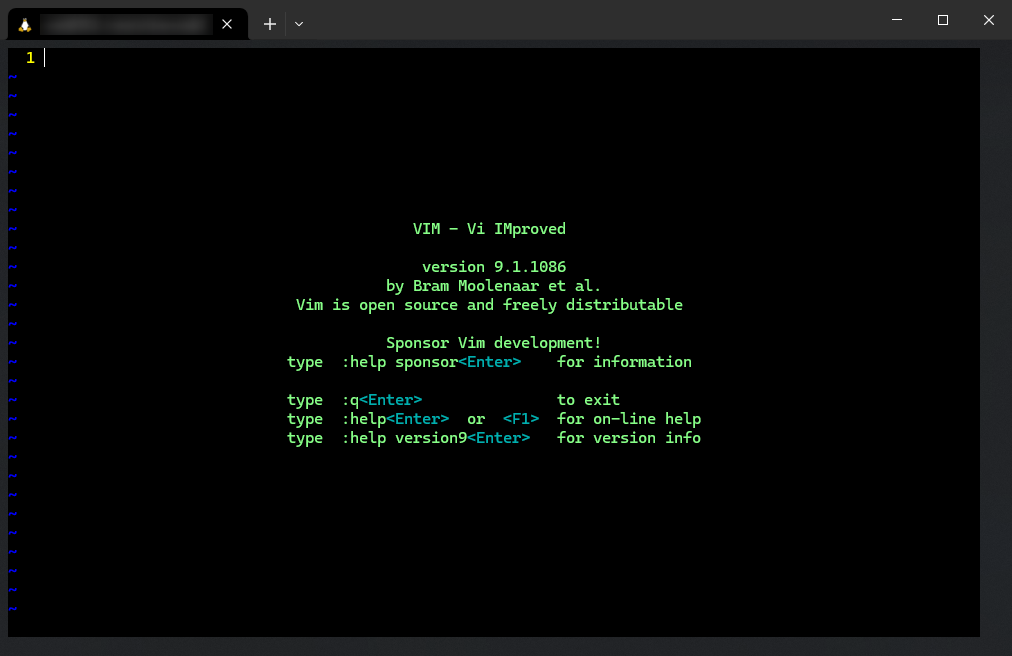
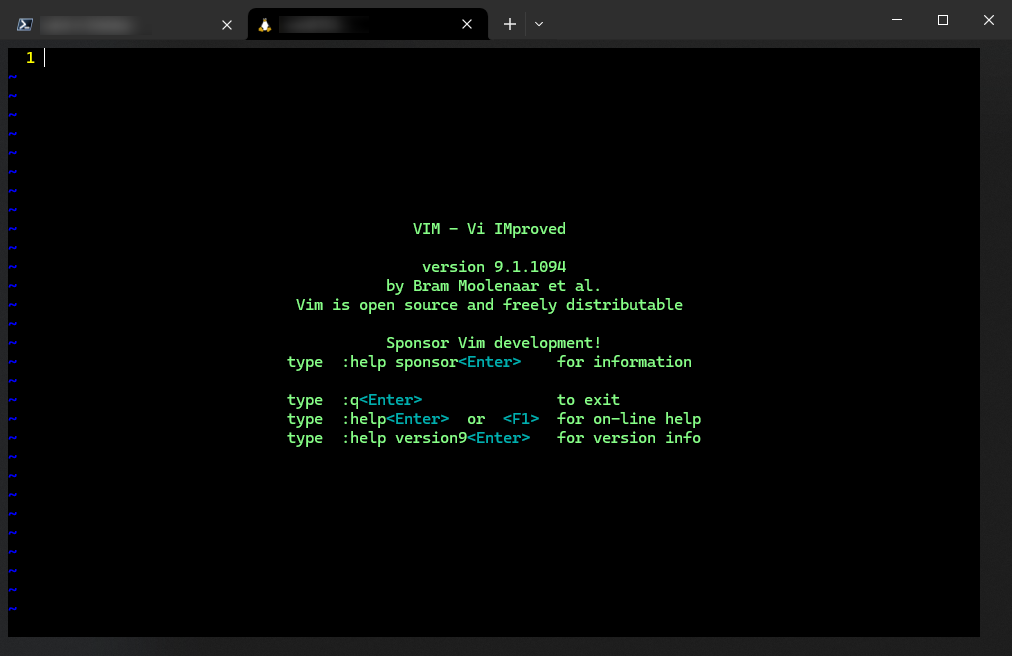
added notes for Ch01 - Vim Basics

Changed region(s): [[0.0, 0.0, 0.4901, 0.061], [0.5514, 0.3963, 0.582, 0.4268]]

diff --git a/Ch01.md b/Ch01.md
@@ -1,0 +1,234 @@
+# 第一章 Vim 入门
+
+
+
+> **本章概要**
+>
+> - 主要 `Vim` 版本间的区别
+> - 模态与无模态界面，以及 `Vim` 的不同之处
+> - `Vim` 的安装与升级
+> - `gVim`：`Vim` 的图形界面
+> - 配置 `Vim` 的 `Python` 语言支持和编辑配置文件
+> - 常见的文件操作：打开、修改、保存和关闭文件
+> - 光标的移动：用箭头键、方向键，按单词、段落等进行导航
+> - 对文件进行简单编辑，并将编辑命令与移动命令相结合
+> - 持久化撤消（undo）历史
+> - 查看 `Vim` 内置帮助手册
+
+本章源码：`https://github.com/PacktPublishing/Mastering-Vim-Second-Edition/tree/main/Chapter01`。
+
+由于本章绝大部分知识都在《**Vim Masterclass**》专栏详细介绍过了，这里只梳理与该专栏强调的核心知识不太一样的地方。
+
+---
+
+
+
+## 1 Vim 简史
+
+![](assets/1.1.png)
+
+**图 1.1 由 Teletype Corporation 出品的 ASR-33 电传打字机**
+
+20 世纪中叶的出现电传打字机（`teleprinter`）实现了远程收发信息打字。
+
+由于当时只能逐行处理文本，于是出现了基于文本行的编辑工具 `ed`（**Ken Thompson** 开发）以及 `ex`（**Bill Joy** 开发）。
+
+后来有了带显示器的版本，文本编辑工具也随之升级出更强大的功能。
+
+1976 年，**Bill Joy** 推出了 `vi` 编辑器，并实现了多行编辑（此 `vi` 非彼 `vi`：如今的 `vi` 其实是 `Vim` 简化版 `Vim-tiny` 的一个快捷方式（symlink））。
+
+`Vim` 各版本核心功能一览表：
+
+|    主版本     |    年份     | 核心看点                                                     |
+| :-----------: | :---------: | ------------------------------------------------------------ |
+|     `1.0`     |    1991     | **Bram Moolenaar** 为 `Amiga` 电脑发布 **Vi Imitation**      |
+|     `2.0`     |    1993     | 更名为 **Vi Improved** 正式发布                              |
+|     `3.0`     |    1994     | 支持多窗口                                                   |
+|     `4.0`     |    1996     | 支持图形界面（`GUI`）                                        |
+| `5.0` - `5.8` | 1998 - 2001 | 新增语法高亮、脚本（`scripting`）和选择模式（select mode）   |
+| `6.0` - `6.4` | 2001 - 2005 | 添加插件支持和 `fold` 折叠                                   |
+| `7.0` - `7.4` | 2006 - 2013 | 拼写检查、代码自动补全、`tag` 标签、分支历史和 `undo` 的持久化 |
+| `8.0` - `8.2` | 2016 - 2019 | 大量优化、异步 `I/O` 支持、内置终端和弹窗                    |
+|     `9.0`     |    2022     | 引入新脚本语言（`Vim9script`）                               |
+
+> [!tip]
+>
+> 想查看 `Vim 9.0` 的新功能，命令模式下执行：`:help version9` + <kbd>Enter</kbd>
+
+
+
+## 2 模态 vs 非模态
+
+主要区别：对上下文语境的识别——
+
+- 支持模态的编辑器：同样的操作随上下文的不同而不同（智能机）；
+- 不支持模态的编辑器：各操作一直是静态功能（直板机）。
+
+![](assets/1.2.png)
+
+**图 1.2 模态界面之于非模态界面，就如同智能手机之于大多数传统手机的对比**
+
+
+
+## 3 Vim 9 的安装（WSL 版）
+
+这一节讲得很细，各操作系统的 `Vim9` 安装方案都演示了一遍。我只根据本机情况做了实测，实现了在 `WSL Unbuntu v20.04` 环境下将原来的 `v8.1` 版 `Vim` 通过源码编译的方式升级到了最新的 `vim 9.1`。
+
+以下是具体的安装操作：
+
+```bash
+$ pwd
+/root
+# 安装 Unbuntu 构建依赖
+$ sudo apt-get install make build-essential libncurses5-dev libncursesw5-dev --fix-missing
+# 下载 ncurses 依赖：https://invisible-island.net/ncurses/#download_ncurses
+$ cp /mnt/c/Users/ad/Desktop/ncurses.tar.gz .
+$ tar -zxvf ncurses.tar.gz
+$ cd ncurses-6.3
+$ ./configure
+$ make
+$ sudo make install
+# 从 GitHub 下载 Vim 的最新稳定版：https://github.com/vim/vim/tags（vim-9.1.1094.tar.gz）
+$ cp /mnt/c/Users/ad/Desktop/vim-9.1.1094.tar.gz .
+# 安装过程中一律点确认
+$ tar -zxvf vim-9.1.1094.tar.gz
+$ cd vim-9.1.1094
+$ ./configure --prefix=/usr/local --with-features=huge --enable-python3interp
+$ make
+$ sudo make install
+```
+
+注意：
+
+- `--prefix` 用于指定安装路径；
+- `--with-feature` 是限定安装范围（按最完整版本安装）；
+- `--enable-python3interp` 是添加对 `Python3` 的语言支持。
+
+安装完毕后，最好重启 `WSL`，并输入 `vim` + <kbd>Enter</kbd> 进行确认：
+
+![](assets/1.3.png)
+
+按照书中给出的一个 `vimrc` 配置更新 `.vimrc` 文件：
+
+```bash
+syntax on " Enable syntax highlighting.
+filetype plugin indent on " Enable file type based options.
+set nocompatible " Don't run in backwards compatible mode.
+set autoindent " Respect indentation when starting new line.
+set expandtab " Expand tabs to spaces. Essential in Python.
+set tabstop=4 " Number of spaces tab is counted for.
+set shiftwidth=4 " Number of spaces to use for autoindent.
+set backspace=2 " Fix backspace behavior on most terminals.
+colorscheme murphy " Change a colorscheme.
+
+" DIY: show line numbers
+set number
+```
+
+于是得到如下效果（启用 `murphy` 配色方案）：
+
+![](assets/1.4.png)
+
+
+
+## 4 创建示例文件
+
+用 `Vim` 创建一个用于演示相关操作的 `Python` 文件 `spam.py`：
+
+```python
+#!/usr/bin/python
+
+import random
+
+INGREDIENTS = ['egg', 'sausage', 'bacon', 'ham', 'crumpets', 'spam']
+
+def prepare_menu_item(ingredient, with_spam=True):
+    if with_spam:
+        return 'spam ' + ingredient
+    return ingredient
+
+def main():
+    print('Scene: A cafe. A man and his wife enter.')
+    print('Man: Well, what\'ve you got?')
+    menu = []
+    for ingredient in INGREDIENTS:
+        has_spam = random.choice([True, False])
+        menu.append(prepare_menu_item(ingredient, with_spam=has_spam))
+    print('Waitress: Well, there\'s', ', '.join(menu))
+
+if __name__ == '__main__':
+    main()
+
+```
+
+然后运行该程序：
+
+```bash
+$ python3 spam.py
+$ Scene: A cafe. A man and his wife enter.
+Man: Well, what've you got?
+Waitress: Well, there's spam egg, spam sausage, bacon, ham, spam crumpets, spam
+$ 
+```
+
+
+
+## 5 关于 .swp 交换文件
+
+当 `Vim` 会话非正常关闭或远程服务器突然中断时，未及时保存变更的文件会生成一个 `.swp` 交换（`swap` 的简写）文件，通常格式为 `<filename>.swp` 或 `.<filename>.swp`，并且它们就在目标文件的所在路径下同步产生。
+
+想要自定义 `.swp` 文件存放的路径，可以通过 `directory` 选项实现（注意末尾为两个斜杠符，否则不生效）：
+
+```bash
+set directory=%USERDATA%\.vim\swap//
+```
+
+若要完全禁用交换文件的生成，则可以在 `.vimrc` 中设置：
+
+```bash
+set noswapfile
+```
+
+
+
+## 6 Vim 光标浏览技巧
+
+主要记住这张示意图就行了：
+
+![](assets/1.5.png)
+
+**图 1.3 Vim 光标浏览核心按键示意图**
+
+和此前专栏最大的不同，是对 `e` 命令和按段落浏览（<kbd>{</kbd> 和 <kbd>}</kbd>）的强调。`e` 即 `end of word` 的缩写，可快速定位到光标所在单词（word）的最后一个字符，与 `b` 命令相互呼应。
+
+
+
+## 7 对 undo 与 redo 的持久化相关设置
+
+`Vim` 的 `undo` 历史列表并不是线性的。如果需要记得几天以前的历史操作，持久化设置就显得很有必要了：
+
+```bash
+set undofile
+```
+
+但是这样会在每个正在编辑的文件旁生成一个 `undo` 文件。此时可以用下列脚本将它们合并到一起：
+
+```bash
+" Set up persistent undo across all files.
+set undofile
+let my_undo_dir = expand('$HOME/.vim/undodir')
+if !isdirectory(my_undo_dir))
+  call mkdir(my_undo_dir, "p")
+endif
+set undodir=my_undo_dir
+```
+
+
+
+## 8 关于 Vim 帮助文档
+
+`Vim` 还内置了一个交互式的入门文档 `vimtutor`，直接在 `Vim` 外运行命令 `vimtutor` + <kbd>Enter</kbd> 即可：
+
+![](assets/1.6.png)
+
+**图 1.4 Vim 自带的交互式入门文档界面**

diff --git a/README.md b/README.md
@@ -44,8 +44,8 @@ Status available：:heavy_check_mark: (Completed) | :hourglass_flowing_sand: (Wo
 
 |          Status          | No.  |                    Chapter Title                     |
 | :----------------------: | :--: | :--------------------------------------------------: |
-| :hourglass_flowing_sand: | Ch01 |             [Getting Started](./Ch01.md)             |
-|        :no_entry:        | Ch02 |     [Advanced Editing and Navigation](./Ch02.md)     |
+|    :heavy_check_mark:    | Ch01 |             [Getting Started](./Ch01.md)             |
+| :hourglass_flowing_sand: | Ch02 |     [Advanced Editing and Navigation](./Ch02.md)     |
 |        :no_entry:        | Ch03 |   [Follow the Leader Plugin Management](./Ch03.md)   |
 |        :no_entry:        | Ch04 |      [Understanding Structured Text](./Ch04.md)      |
 |        :no_entry:        | Ch05 |        [Build, Test, and Execute](./Ch05.md)         |
